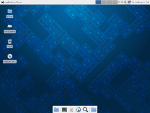
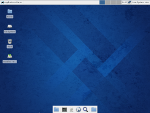
add Xfce, SoaS and MATE screenshots

diff --git a/fedoraproject.org/data/content/get-fedora-options.html b/fedoraproject.org/data/content/get-fedora-options.html
@@ -155,7 +155,7 @@
                             <div class="clear"></div>
                             <div class="grid_2 alpha"><img class="download-media" alt="32-bit PC Edition" src="${path}/static/images/icon-mate-download.png" /></div>
                             <div class="grid_10 omega">
-                <img class="desktop-screenshot" src="${path}/static/images/screenshots/desktop-ss-xfce.png" rel="#xfce1" alt="scr-shot_xfce" />
+                <img class="desktop-screenshot" src="${path}/static/images/screenshots/desktop-ss-mate.png" rel="#mate1" alt="scr-shot_mate" />
                                 <p>${_('MATE-Compiz-based Fedora desktop.')}</p>
                                 <ul>
                                     <li><a href="http://spins.fedoraproject.org/mate-compiz/">${_('Fedora MATE-Compiz Spin homepage')} &gt;</a></li>
@@ -181,7 +181,7 @@
                             <div class="clear"></div>
                             <div class="grid_2 alpha"><img class="download-media" alt="32-bit PC Edition" src="${path}/static/images/icon-soas-download.png" /></div>
                             <div class="grid_10 omega">
-                <img class="desktop-screenshot" src="${path}/static/images/screenshots/desktop-ss-xfce.png" rel="#xfce1" alt="scr-shot_soas" />
+                <img class="desktop-screenshot" src="${path}/static/images/screenshots/desktop-ss-soas.png" rel="#soas1" alt="scr-shot_soas" />
                                 <p>${_('SoaS-based Fedora desktop.')}</p>
                                 <ul>
                                     <li><a href="http://spins.fedoraproject.org/soas/">${_('Fedora SoaS Spin homepage')} &gt;</a></li>
@@ -607,6 +607,14 @@
                     <div class="simple_overlay" id="xfce1">
                         <!-- large image -->
                         <img src="${path}/static/images/screenshots/full-desktop-ss-xfce.png" alt="" />
+                    </div>
+                    <div class="simple_overlay" id="mate1">
+                        <!-- large image -->
+                        <img src="${path}/static/images/screenshots/full-desktop-ss-mate.png" alt="" />
+                    </div>
+                    <div class="simple_overlay" id="soas1">
+                        <!-- large image -->
+                        <img src="${path}/static/images/screenshots/full-desktop-ss-soas.png" alt="" />
                     </div>
 
                 </div>
